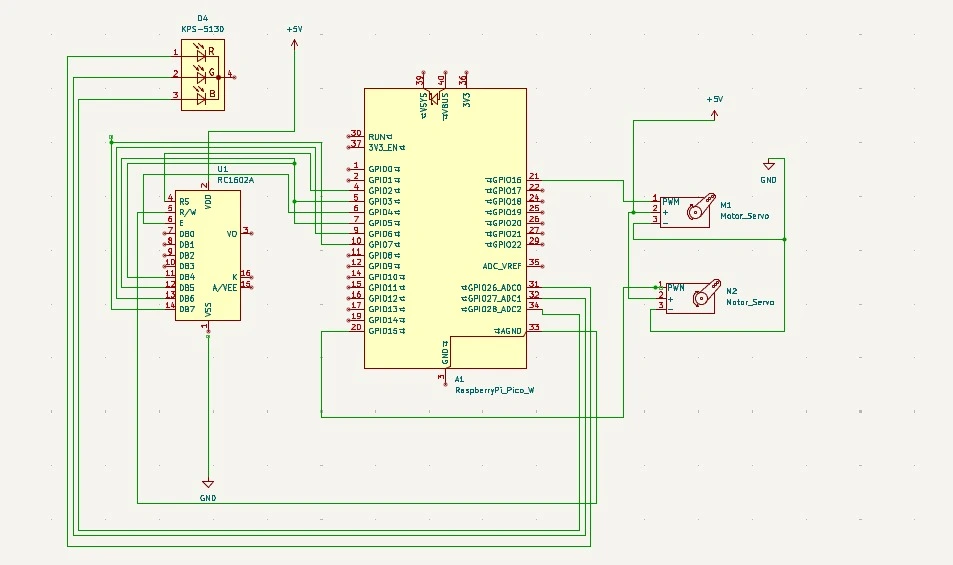
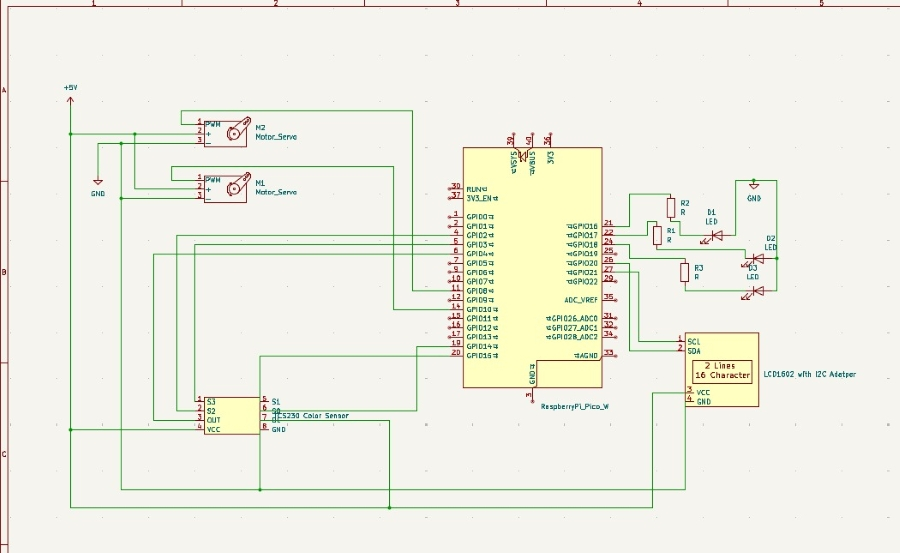
Added the weekly log and logic for hardware, as well as the complete real wiring

diff --git a/website/versioned_docs/version-acs_cc/project/2025/mihnea.sandulache/index.md b/website/versioned_docs/version-acs_cc/project/2025/mihnea.sandulache/index.md
@@ -18,13 +18,13 @@ corresponding with the respective colour.
 
 + The system utilizes a sensor to identify colour of the candy.
 
-+ A servomotor then rotates the candy above a pipe.
-
 + The pipe is rotated to a pre-calculated angle, based on the colour of the candy so it drops in a special glass.
+
++ A servomotor then rotates the bottom side of the earrings box and the candy drops into an improvised funnel through the pipe and into the correct glass.
 
 + The LCD screen showcases the colour of the candy.
 
-+ An LED is then turned on based on the colour.
++ LEDs are then turned on based on the colour.
 
 + Both servomotors rotated back to their initial state and another candy is ready to be dropped.
 
@@ -50,7 +50,7 @@ The **colour sensor** identifies the colour of the candy and sends the data to t
 
 The **pipe** is rotated to a pre-calculated angle based on the colour of the candy, ensuring it drops into the correct glass.
 
-The **two cardboard disks** are used to create a makeshift arm, which is rotated by the servomotor. This arm is responsible for holding the candy and dropping it into the correct glass.
+The **earrings box** is used to create a makeshift arm, which is rotated by the servomotor. This arm is responsible for holding the candy and dropping it into the correct glass.
 
 ![diagram](components.webp)
 
@@ -62,6 +62,9 @@ The **two cardboard disks** are used to create a makeshift arm, which is rotated
 
 ### Week 5 - 11 May
 
+I started the project by gathering all the necessary components and setting up the Raspberry Pi Pico 2W. I also began researching the TCS230 colour sensor and how to interface it with the Pico. After that, I began wiring all the components together, testing the connections, then hit a really rough blockage with the LCD display. I was unable to get it to work, so I decided to use a different one, the 1602 LCD with I2C interface. After searching the internet for hours trying to find a crate, I finally found one that worked.
+
+![diagram](Real_wiring.webp)
 
 ### Week 12 - 18 May
 
@@ -103,7 +106,7 @@ The **two cardboard disks** are used to create a makeshift arm, which is rotated
 
 
 ### Schematics
-![diagram](KiCad.webp)
+![diagram][KiCad.webp]
 
 ### Bill of Materials
 
@@ -121,7 +124,7 @@ The format is
 |--------|--------|-------|
 | [Rapspberry Pi Pico 2W](https://datasheets.raspberrypi.com/picow/pico-2-w-datasheet.pdf) | The microcontroller | [39,66 RON](https://www.optimusdigital.ro/en/raspberry-pi-boards/13327-raspberry-pi-pico-2-w.html?search_query=raspberry+pi+pico+2&results=36) |
 | [TCS230](https://www.alldatasheet.com/view.jsp?Searchword=Tcs230%20datasheet&gad_source=1&gbraid=0AAAAADcdDU8NxuHbP0cnjgnaxxW8mVMPq&gclid=Cj0KCQjw2ZfABhDBARIsAHFTxGz_agIuGAL-wwwaZPnvfzuuriu4R4DTv64Wi2Bz9ikCXMJKSeYdvh4aAvbREALw_wcB) | Colour Sensor| [38,99 RON](https://www.optimusdigital.ro/en/optical-sensors/111-tcs230-color-sensor-module.html) |
-| [LCD Display](https://www.waveshare.com/datasheet/LCD_en_PDF/LCD1602.pdf) | LCD Display| [14 RON](https://www.bitmi.ro/electronica/display-lcd1602-hd44780-albastru-iluminat-10486.html) |
+| [1602 LCD with I2C Interface](https://www.waveshare.com/datasheet/LCD_en_PDF/LCD1602.pdf) | LCD Display| [16,34 RON](https://www.optimusdigital.ro/en/lcds/2894-1602-lcd-with-i2c-interface-and-blue-backlight.html?search_query=1602+LCD+with+I2C+Interface+and+Blue+Backlight&results=2) |
 | [Servomotor](https://datasheetspdf.com/datasheet/SG90.html) | Servomotor | [14 RON](https://www.optimusdigital.ro/ro/motoare-servomotoare/26-micro-servomotor-sg90.html?search_query=servomotor&results=119) |
 
 
@@ -132,12 +135,12 @@ The format is
 | Library | Description | Usage |
 |---------|-------------|-------|
 | [embassy-rp](https://github.com/embassy-rs/embassy/tree/main/embassy-rp) | RP2350 Peripherals | Used for accessing the peripherals|
-| [esp-idf-servo](https://crates.io/crates/esp-idf-servo) | Servo control | Used for controlling the servomotor|
 | [embedded-hal](https://crates.io/crates/embedded-hal) | Embedded Hardware Abstraction Layer | Used for accessing the hardware|
-| [ag-lcd](https://github.com/mjhouse/ag-lcd) | LCD display | Used for controlling the LCD display|
+| [lcd1602-diver](https://crates.io/crates/lcd1602-diver) | LCD display | Used for controlling the LCD display|
 | [cortex-m](https://github.com/rust-embedded/cortex-m) | Provides low-level APIs for ARM Cortex-M processors | Interrupt handling and system control|
 | [embassy-executor](https://github.com/embassy-rs/embassy/tree/main/embassy-executor) | Asynchronous executor for embedded systems | Used for managing tasks and scheduling|
 
 ## Links
 
 <!-- Add a few links that inspired you and that you think you will use for your project -->
+- [TCS230 Article](https://randomnerdtutorials.com/arduino-color-sensor-tcs230-tcs3200/)
